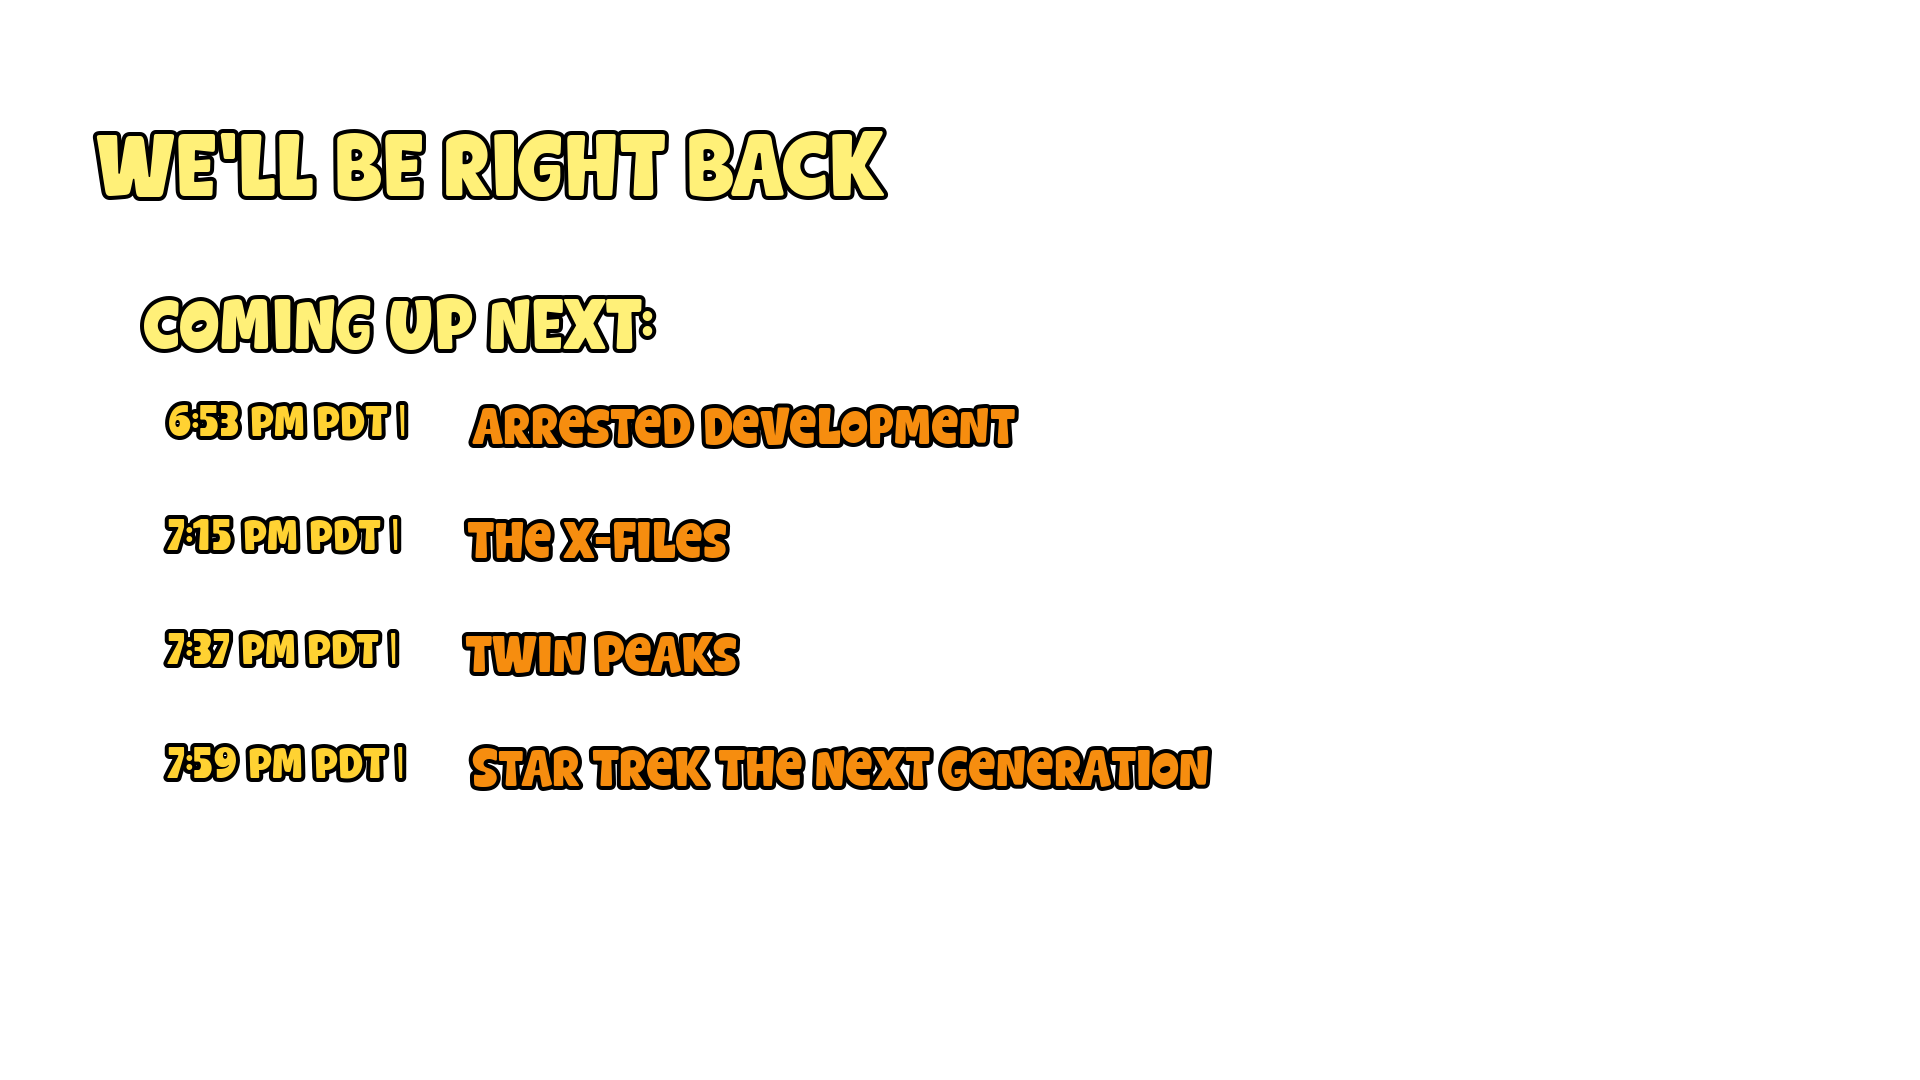
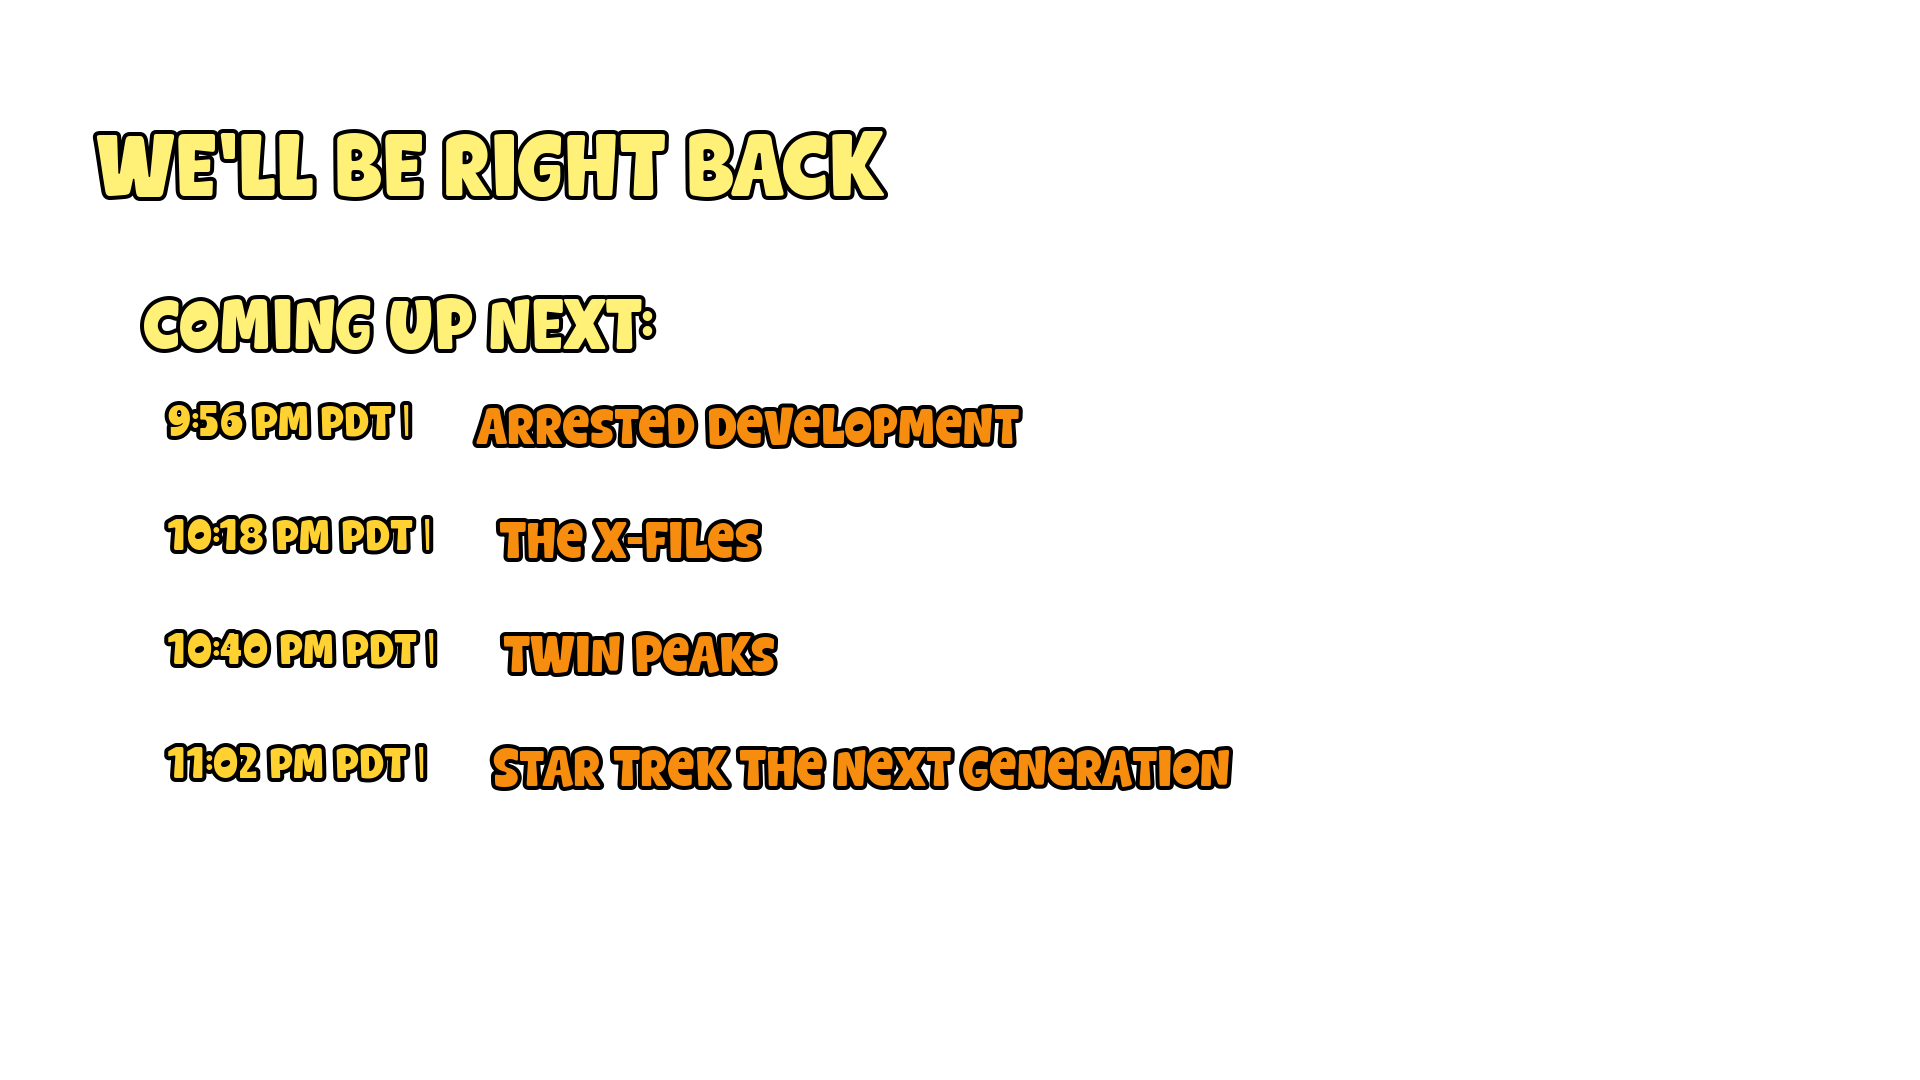
ddddddddddd

diff --git a/station_manager.py b/station_manager.py
@@ -142,6 +142,7 @@ class TVStationService:
         try:
             # --- 1. MPV SETUP ---
             player = mpv.MPV(
+                af='lavfi=[dynaudnorm=f=75:g=31:n=0:p=0.58]',
                 wid=self.window_id,
                 input_default_bindings=True,
                 input_vo_keyboard=True,
@@ -272,7 +273,7 @@ class TVStationService:
 
                     # Wait for Bumper to end, allow skipping
                     bumper_start_time = time.time()
-                    bumper_duration = 15  # Set your desired interstitial length in seconds
+                    bumper_duration = 14  # Set your desired interstitial length in seconds
                     
                     while not getattr(player, 'idle_active', True) and self.running:
                         # 1. Check for manual user skip

diff --git a/commercial_manager.py b/commercial_manager.py
@@ -15,7 +15,7 @@ class CommercialManager:
             return
 
         print("--- Scanning Commercials (This may take a moment to read durations) ---")
-        valid_exts = {'.mp4', '.mkv', '.avi', '.mov', '.mpg'}
+        valid_exts = {'.mp4', '.mkv', '.avi', '.mov', '.mpg', '.webm'}
         
         for root, _, files in os.walk(self.commercials_path):
             for file in files:

diff --git a/inventory_manager.py b/inventory_manager.py
@@ -5,7 +5,7 @@ from pathlib import Path
 class InventoryManager:
     def __init__(self):
         # Regex to find "Season 1", "S01", "s1", etc.
-        self.season_pattern = re.compile(r"(?:season|s)[\s\.]*(\d+)", re.IGNORECASE)
+        self.season_pattern = re.compile(r"(?:season|s)[\s\.]*(\d)", re.IGNORECASE)
         # Regex to find "1x01", "2x10", etc. inside a filename
         self.episode_pattern = re.compile(r"(\d+)[xX](\d+)")
         